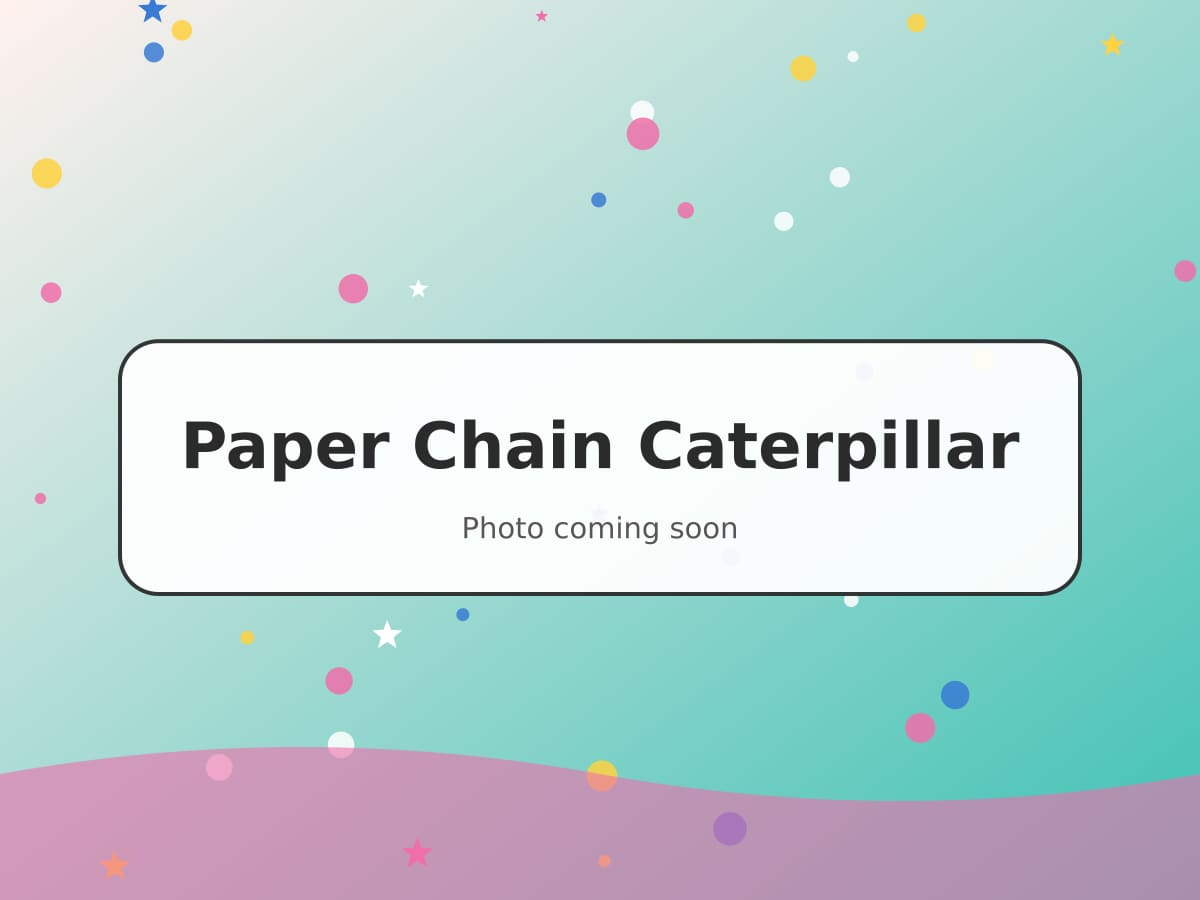
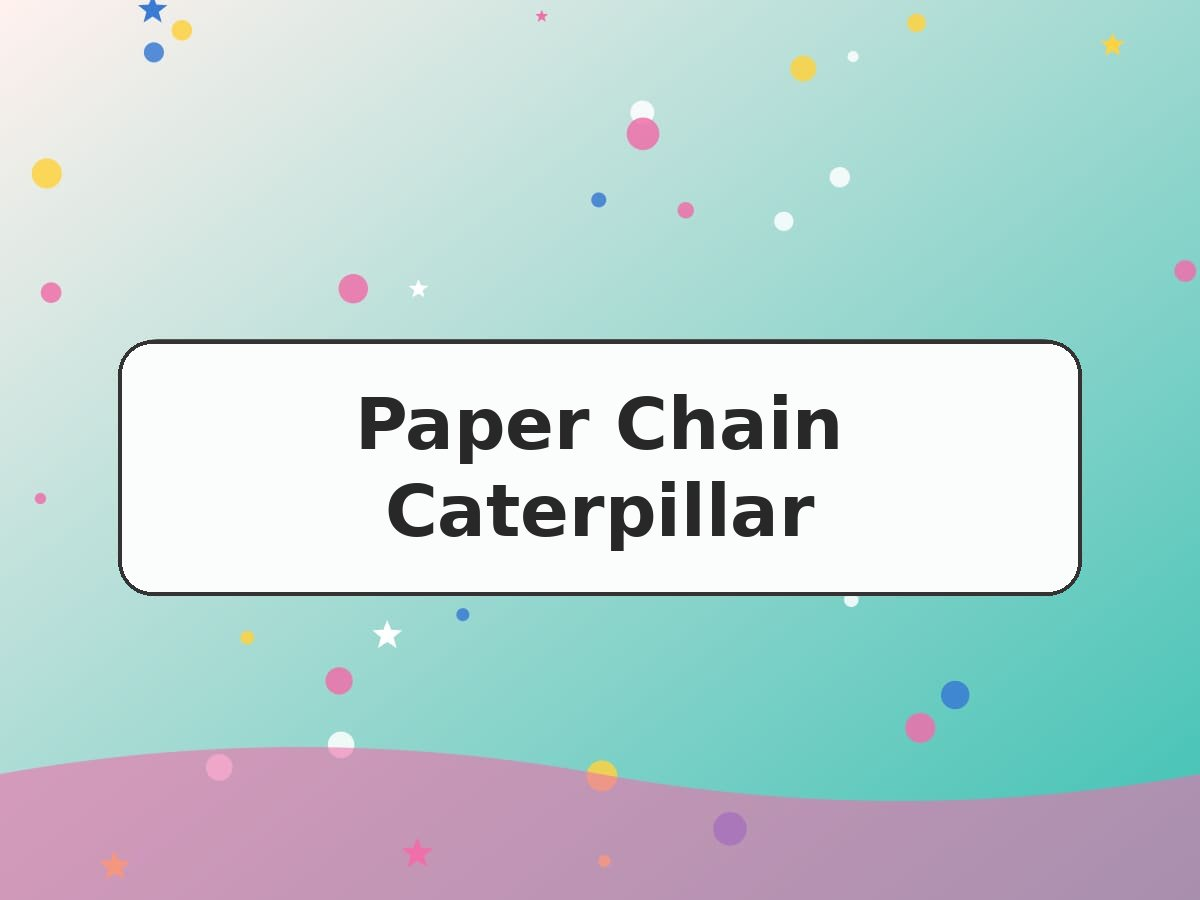
Hide placeholder tutorial step photos and drop 'coming soon' from cover cards
Claude-Session: https://claude.ai/code/session_017fyEoVeMiCWuzqNz9xnoFG

diff --git a/src/content/tutorials/quilled-flower-greetings-card.md b/src/content/tutorials/quilled-flower-greetings-card.md
@@ -26,31 +26,24 @@ materials:
 steps:
   - title: Plan your bunch
     text: Lightly pencil three or four curved stems on the front of your card. Keep them loose and wavy. Real flowers never grow in straight lines!
-    image: /images/tutorials/quilled-flower-greetings-card/step-1.jpg
     alt: Pencil sketch of curved flower stems on a card blank
   - title: Roll your first coil
     text: Slide the end of a strip into the slot of your tool and turn it slowly, keeping the edges level. Roll right to the end, slip it off and let it relax into a loose coil.
-    image: /images/tutorials/quilled-flower-greetings-card/step-2.jpg
     alt: A pink paper strip being rolled on a slotted quilling tool
   - title: Glue and pinch into petals
     text: Dab a tiny bit of glue on the loose end and hold for a few seconds. Now pinch one side to make a teardrop, or both sides for an eye shape. Make five or six petals per flower.
-    image: /images/tutorials/quilled-flower-greetings-card/step-3.jpg
     alt: Teardrop and eye-shaped quilled petals on a craft mat
   - title: Make tight centres
     text: Roll a yellow strip tightly and glue it without letting it relax. These little buttons sit in the middle of each flower.
-    image: /images/tutorials/quilled-flower-greetings-card/step-4.jpg
     alt: Small tight yellow coils for flower centres
   - title: Glue the stems
     text: Stand a green strip on its edge along your pencil line, dotting glue underneath as you go. Tweezers make this much easier.
-    image: /images/tutorials/quilled-flower-greetings-card/step-5.jpg
     alt: Green paper strips glued on edge as flower stems
   - title: Arrange your flowers
     text: Glue a centre at the top of each stem, then tuck the petals around it with their points facing in. Add a few green teardrops as leaves.
-    image: /images/tutorials/quilled-flower-greetings-card/step-6.jpg
     alt: Finished quilled flowers on a card with leaves and stems
   - title: Finish with a message
     text: Let the glue dry flat for an hour, then write your message inside. Pop it in the envelope with a little bit of tissue to protect the flowers.
-    image: /images/tutorials/quilled-flower-greetings-card/step-7.jpg
     alt: The finished card standing up next to its envelope
 tips:
   - Less glue is more. A dot on the end of a cocktail stick is plenty.

diff --git a/src/content/tutorials/origami-crane-garland.md b/src/content/tutorials/origami-crane-garland.md
@@ -25,31 +25,24 @@ materials:
 steps:
   - title: Make a square base
     text: Fold your square in half both ways, then diagonally both ways. Push the sides in along the creases so it collapses into a smaller square with the open end at the bottom.
-    image: /images/tutorials/origami-crane-garland/step-1.jpg
     alt: A folded origami square base in turquoise paper
   - title: Fold the kite
     text: Fold the lower edges of the top layer in to the centre line so it looks like a kite. Fold the top triangle down over them, crease hard, then unfold all three.
-    image: /images/tutorials/origami-crane-garland/step-2.jpg
     alt: Origami paper folded into a kite shape
   - title: Petal fold
     text: Lift the bottom point of the top layer up along the creases you just made, letting the sides fold in. Flatten it into a long diamond. Turn over and repeat.
-    image: /images/tutorials/origami-crane-garland/step-3.jpg
     alt: A long diamond shape after the petal fold
   - title: Slim it down
     text: Fold the lower edges of the top layer in to the centre again. Turn over and repeat. You now have two thin 'legs' at the bottom.
-    image: /images/tutorials/origami-crane-garland/step-4.jpg
     alt: A slim diamond with two thin points at the bottom
   - title: Neck and tail
     text: Inside-reverse fold each thin point up between the layers, one for the neck and one for the tail. Then reverse fold the tip of the neck down to make a little head.
-    image: /images/tutorials/origami-crane-garland/step-5.jpg
     alt: Crane with neck and tail folded up
   - title: Open the wings
     text: Fold the wings down, then gently pull them apart while blowing softly into the hole underneath to puff out the body. Your first crane, hooray!
-    image: /images/tutorials/origami-crane-garland/step-6.jpg
     alt: A finished pink origami crane with wings spread
   - title: String your garland
     text: Thread a bead, then push the needle up through the bottom hole and out through the top of a crane. Add another bead, leave a 10cm gap and repeat. Tie a loop at each end for hanging.
-    image: /images/tutorials/origami-crane-garland/step-7.jpg
     alt: Cranes and beads threaded onto a string
 tips:
   - Your first crane will look a bit wonky. By crane number five you'll be flying.

diff --git a/src/content/tutorials/pop-up-birthday-card.md b/src/content/tutorials/pop-up-birthday-card.md
@@ -24,27 +24,21 @@ materials:
 steps:
   - title: Print and fold
     text: Print the free template onto your inner card. Fold it in half along the middle line with the printed side on the outside.
-    image: /images/tutorials/pop-up-birthday-card/step-1.jpg
     alt: Printed pop-up template folded in half
   - title: Cut the tabs
     text: Cut along the three pairs of solid lines through both layers. Don't cut the dotted lines. Those are for folding.
-    image: /images/tutorials/pop-up-birthday-card/step-2.jpg
     alt: Scissors cutting pairs of slits into folded card
   - title: Push the tabs through
     text: Fold each tab back and forth along the dotted line to make a crisp crease. Open the card, then push each tab through to the inside so it stands up like a step.
-    image: /images/tutorials/pop-up-birthday-card/step-3.jpg
     alt: Three stepped tabs popping up inside an open card
   - title: Decorate the cake layers
     text: Cut three rectangles of patterned paper, one for each tier. Add icing drips with a white pen, then glue each one onto the front of a tab.
-    image: /images/tutorials/pop-up-birthday-card/step-4.jpg
     alt: Patterned paper cake tiers glued onto the pop-up tabs
   - title: Add candles and sparkle
     text: Cut thin strips for candles with tiny yellow flames on top and glue them to the top tier. A few stars or sequins around the cake look lovely.
-    image: /images/tutorials/pop-up-birthday-card/step-5.jpg
     alt: Paper candles on top of the pop-up cake
   - title: Glue into the outer card
     text: Fold your outer card in half. Glue the back of the pop-up insert inside it, keeping glue away from the tabs. Close it, press flat and leave to dry.
-    image: /images/tutorials/pop-up-birthday-card/step-6.jpg
     alt: The pop-up insert being glued inside a pink outer card
 printable:
   file: /printables/pop-up-cake-template.pdf

diff --git a/src/content/tutorials/paper-fortune-teller.md b/src/content/tutorials/paper-fortune-teller.md
@@ -20,23 +20,18 @@ materials:
 steps:
   - title: Start with a square
     text: Print the template, or fold an A4 sheet corner to corner and cut off the extra strip to make a square.
-    image: /images/tutorials/paper-fortune-teller/step-1.jpg
     alt: A square of paper with diagonal fold lines
   - title: Fold the corners in
     text: Fold the square in half both ways diagonally and open it again. Fold all four corners into the middle so they meet.
-    image: /images/tutorials/paper-fortune-teller/step-2.jpg
     alt: Four corners folded into the centre of the square
   - title: Turn over and repeat
     text: Flip it over and fold the four new corners into the middle again. It's getting smaller!
-    image: /images/tutorials/paper-fortune-teller/step-3.jpg
     alt: Smaller square with corners folded in a second time
   - title: Write your fortunes
     text: On the triangles, write numbers. Under each flap, write a fortune like "You'll find treasure today" or "Do your best dance move". On the outside squares, colour four different colours.
-    image: /images/tutorials/paper-fortune-teller/step-4.jpg
     alt: Hand-written fortunes and numbers inside the folded paper
   - title: Pop it open
     text: Fold it in half, then slide your thumbs and first fingers under the four outside flaps and push them together into a point. Now you're ready to play!
-    image: /images/tutorials/paper-fortune-teller/step-5.jpg
     alt: Fingers inside a finished fortune teller ready to play
 printable:
   file: /printables/fortune-teller-template.pdf

diff --git a/src/content/tutorials/paper-chain-caterpillar.md b/src/content/tutorials/paper-chain-caterpillar.md
@@ -25,23 +25,18 @@ materials:
 steps:
   - title: Cut the strips
     text: Cut paper into strips about 2cm wide and 15cm long. You'll need about 12 strips. Older children can measure and cut their own.
-    image: /images/tutorials/paper-chain-caterpillar/step-1.jpg
     alt: Strips of green and yellow paper cut ready for a paper chain
   - title: Make the first loop
     text: Curl one strip into a ring and glue or tape the ends together.
-    image: /images/tutorials/paper-chain-caterpillar/step-2.jpg
     alt: A single paper ring held together with tape
   - title: Link the chain
     text: Thread the next strip through the ring and close it into a loop. Keep going! Try a pattern like green, yellow, green, yellow.
-    image: /images/tutorials/paper-chain-caterpillar/step-3.jpg
     alt: Paper rings linked together into a chain
   - title: Make a happy face
     text: Colour and cut out the head from the template. Stick on googly eyes and draw a big smile.
-    image: /images/tutorials/paper-chain-caterpillar/step-4.jpg
     alt: A paper caterpillar face with googly eyes and a smile
   - title: Add antennae
     text: A grown-up cuts a pipe cleaner in half. Tape the pieces to the back of the head and curl the ends. Stick the head to the first ring and your caterpillar is ready to wiggle!
-    image: /images/tutorials/paper-chain-caterpillar/step-5.jpg
     alt: Finished caterpillar with curly pipe cleaner antennae
 printable:
   file: /printables/caterpillar-head-template.pdf

diff --git a/src/content/tutorials/paper-plate-rainbow.md b/src/content/tutorials/paper-plate-rainbow.md
@@ -26,23 +26,18 @@ materials:
 steps:
   - title: Cut the plate in half
     text: A grown-up cuts the paper plate in half. Each half makes one rainbow, so there's one for a friend too!
-    image: /images/tutorials/paper-plate-rainbow/step-1.jpg
     alt: A paper plate cut neatly in half
   - title: Draw the stripes
     text: Draw curvy lines across the plate to make six stripes. They don't need to be neat.
-    image: /images/tutorials/paper-plate-rainbow/step-2.jpg
     alt: Pencil stripes drawn on a half paper plate
   - title: Scrunch the tissue
     text: Tear tissue paper into small squares and scrunch each one into a little ball. This is the best bit, so take your time!
-    image: /images/tutorials/paper-plate-rainbow/step-3.jpg
     alt: Small hands scrunching coloured tissue paper into balls
   - title: Stick the colours
     text: Spread glue on one stripe at a time and press the tissue balls on. Red on the outside, then orange, yellow, green, blue and purple.
-    image: /images/tutorials/paper-plate-rainbow/step-4.jpg
     alt: Tissue balls glued in rainbow order on the plate
   - title: Add fluffy clouds
     text: Pull the cotton wool apart so it's fluffy, then glue a cloud at each end of the rainbow.
-    image: /images/tutorials/paper-plate-rainbow/step-5.jpg
     alt: Finished rainbow with fluffy white clouds at each end
 printable:
   file: /printables/rainbow-colouring-sheet.pdf
